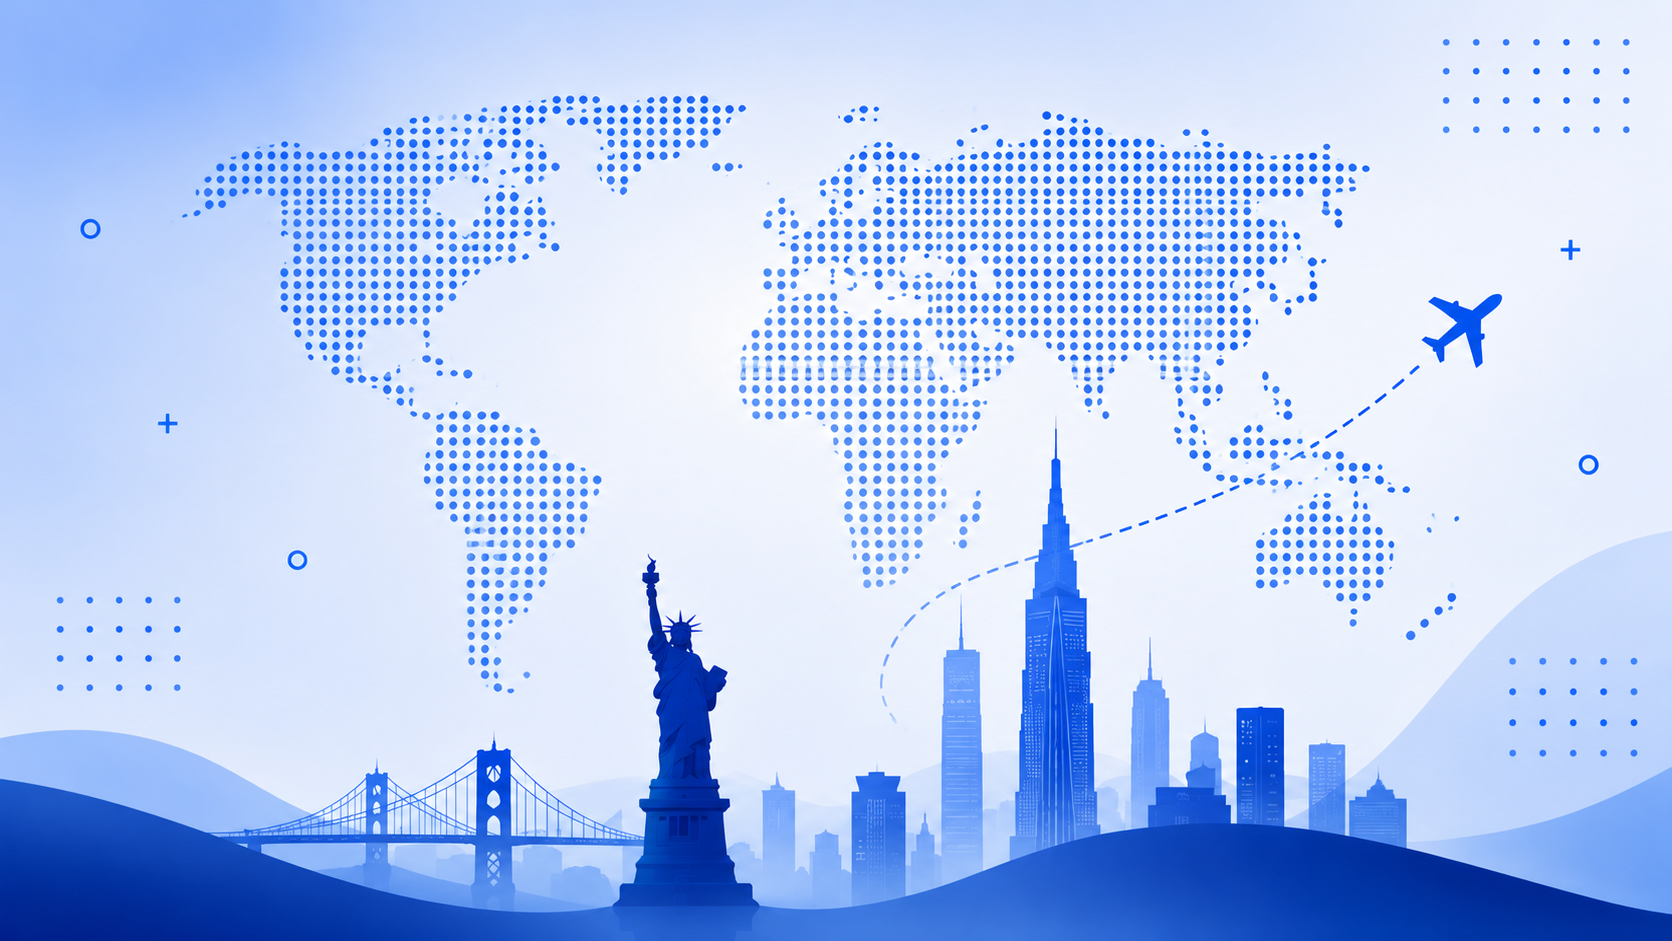
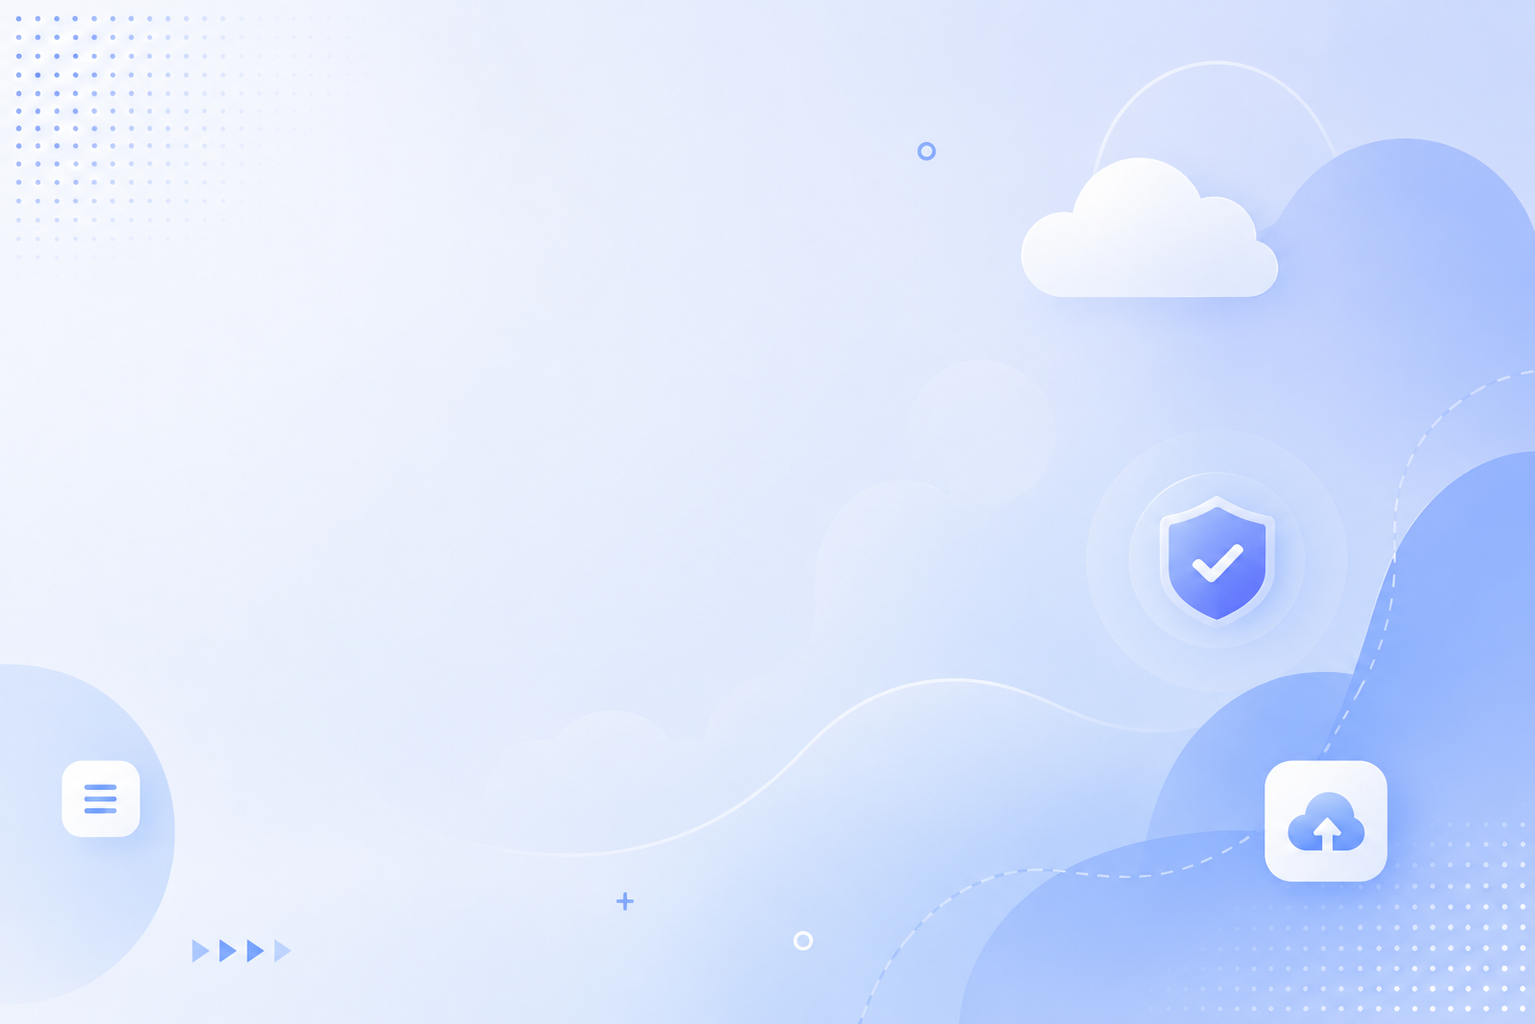
fix: update background image and css tweaks

diff --git a/src/index.css b/src/index.css
@@ -35,7 +35,7 @@ html {
   scroll-behavior: smooth;
   min-height: 100%;
   background-color: #eaedff;
-  background-image: url("./assets/bg2.png");
+  background-image: url("./assets/background.png");
   background-size: cover;
   background-position: center top;
   background-repeat: no-repeat;